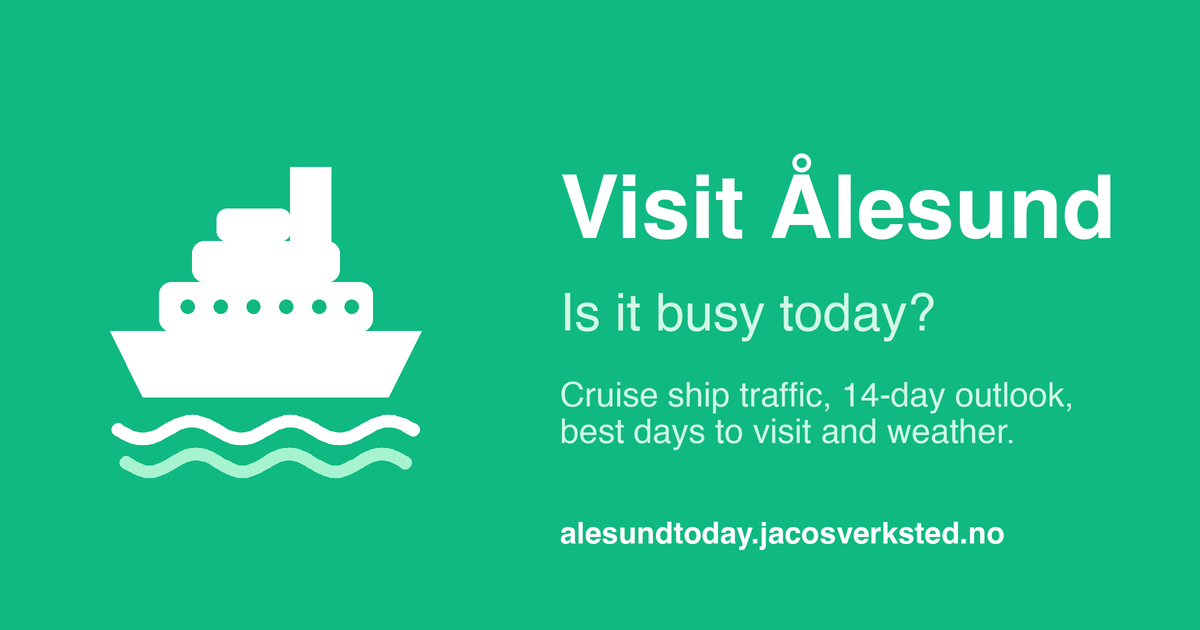
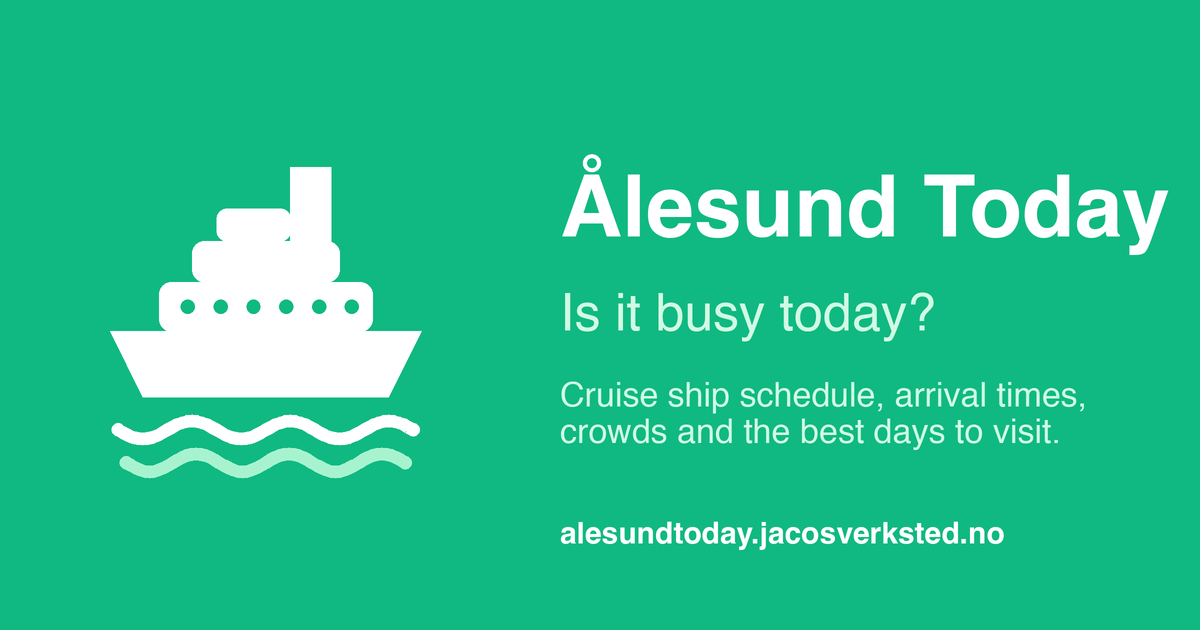
feat: rename to Ålesund Today; daily search description, JSON-LD, sitemap, new preview image
- new name everywhere users see it (page, manifest, privacy page, README, previews)
- meta/OG description states today's real status (rebuilt daily)
- schema.org WebApplication data, sitemap.xml and a Sitemap line in robots.txt
- new Open Graph image

Changed region(s): [[0.4625, 0.2413, 0.9867, 0.4222], [0.4625, 0.6032, 0.8942, 0.7238]]

diff --git a/README.md b/README.md
@@ -1,8 +1,8 @@
 https://alesundtoday.jacosverksted.no/
 
-# Visit Ålesund
+# Ålesund Today
 
-**Is today a good day to visit Ålesund?**
+**Is today a good day to visit Ålesund?** (Formerly "Visit Ålesund".)
 
 Ålesund is one of Norway's most beautiful cities — but on busy cruise ship days, the narrow streets and harbour front can be packed with thousands of extra visitors. A single large ship can bring more than 4,000 passengers into a city of 50,000 people.
 

diff --git a/CHANGELOG.md b/CHANGELOG.md
@@ -1,6 +1,6 @@
 # Changelog
 
-All notable changes to Visit Ålesund are documented here.
+All notable changes to Ålesund Today (formerly "Visit Ålesund") are documented here.
 
 Newest first. Entries on the same date are grouped by theme.
 
